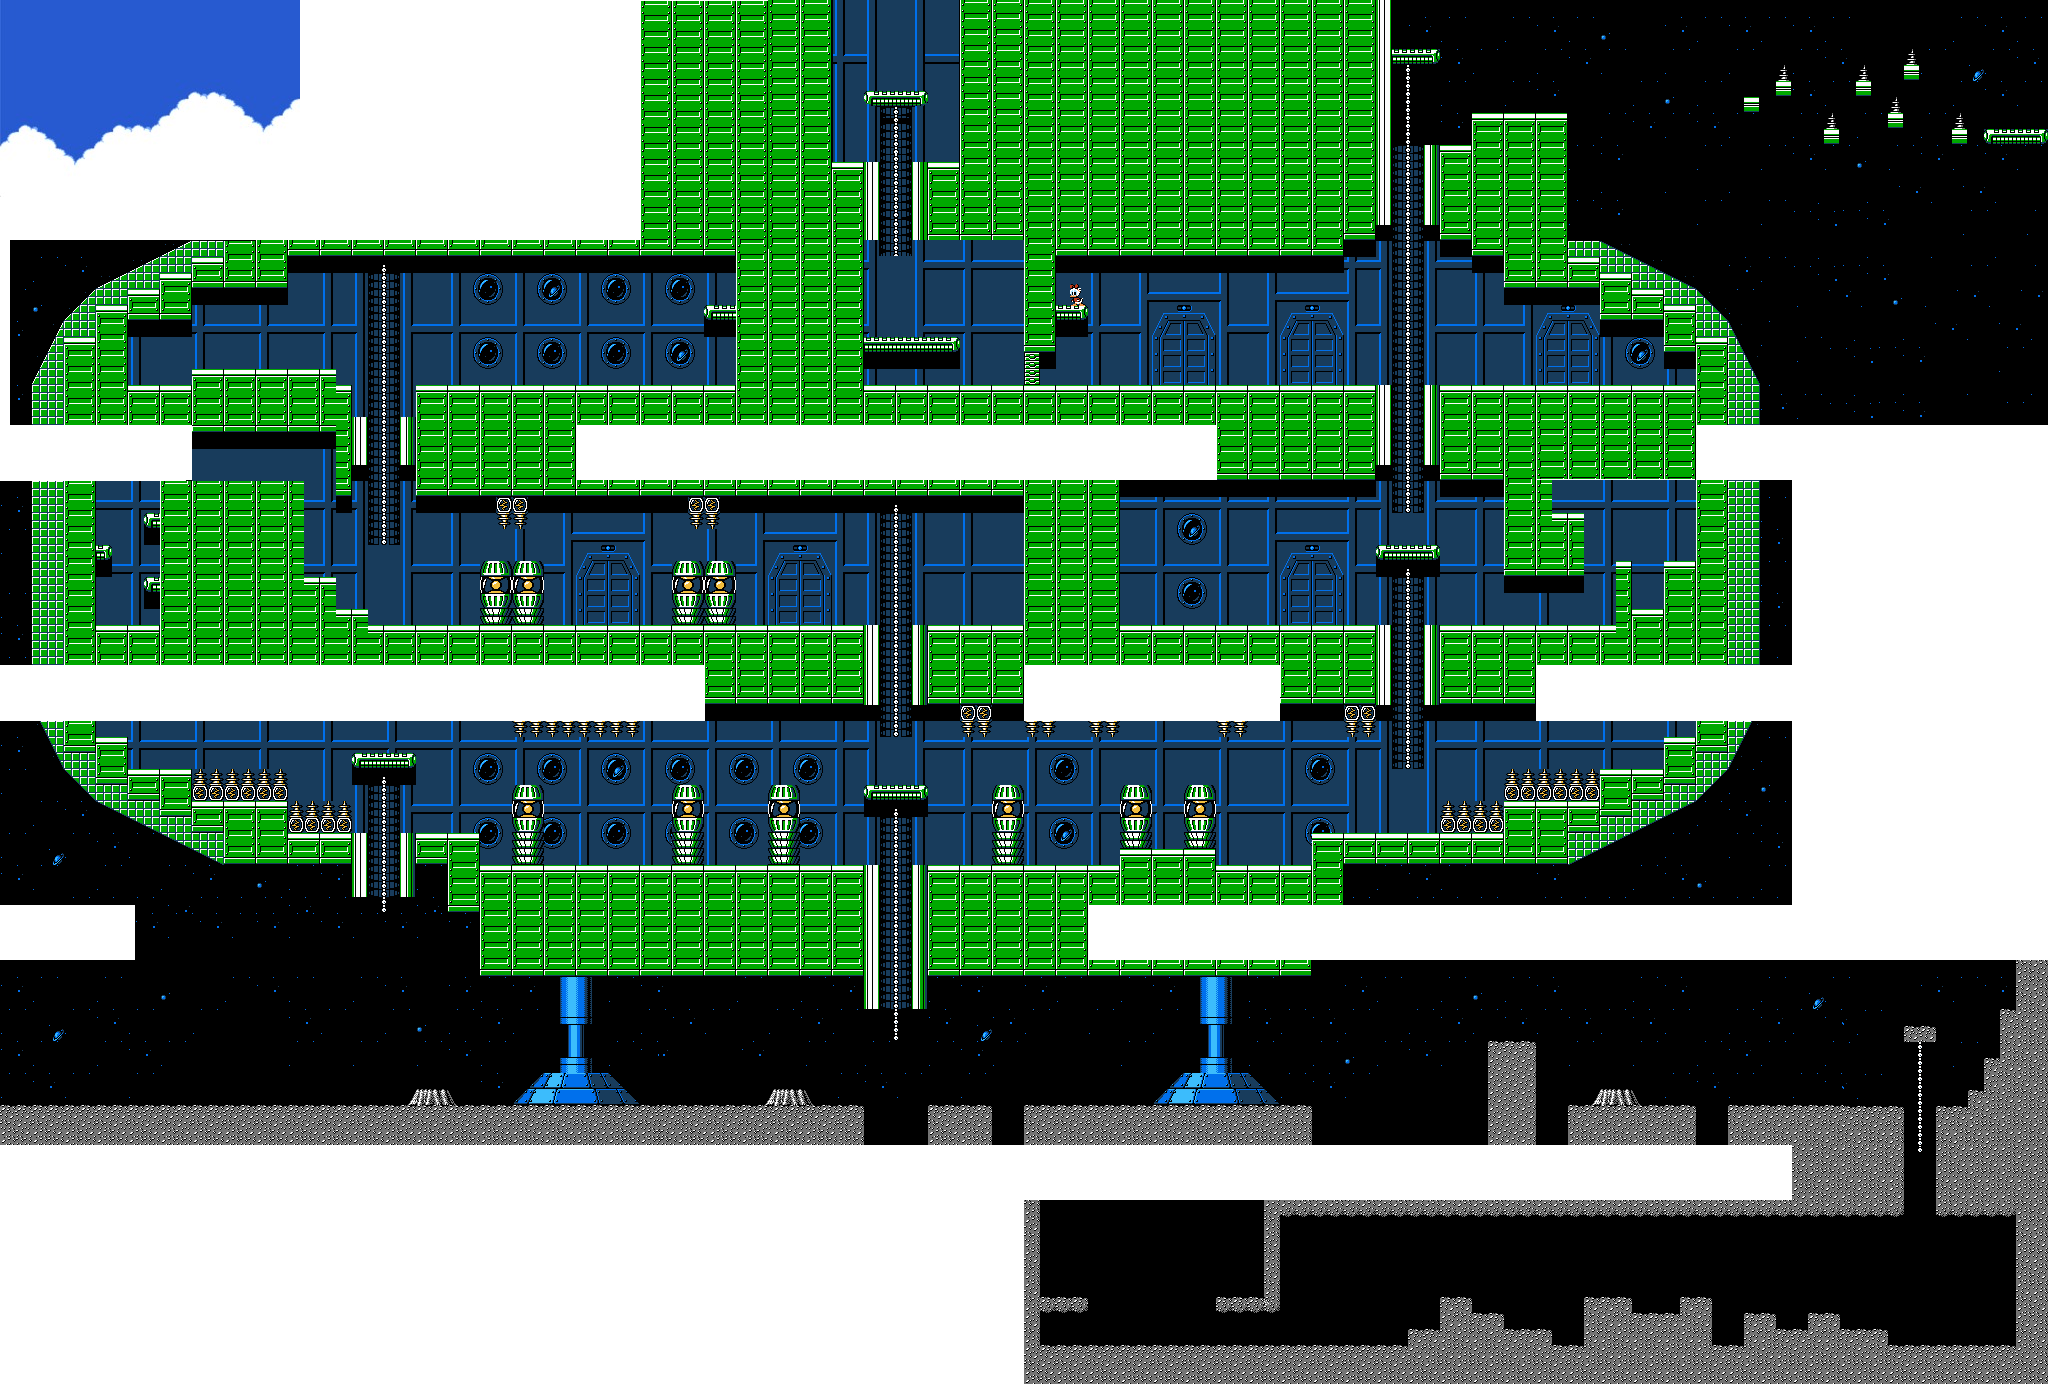
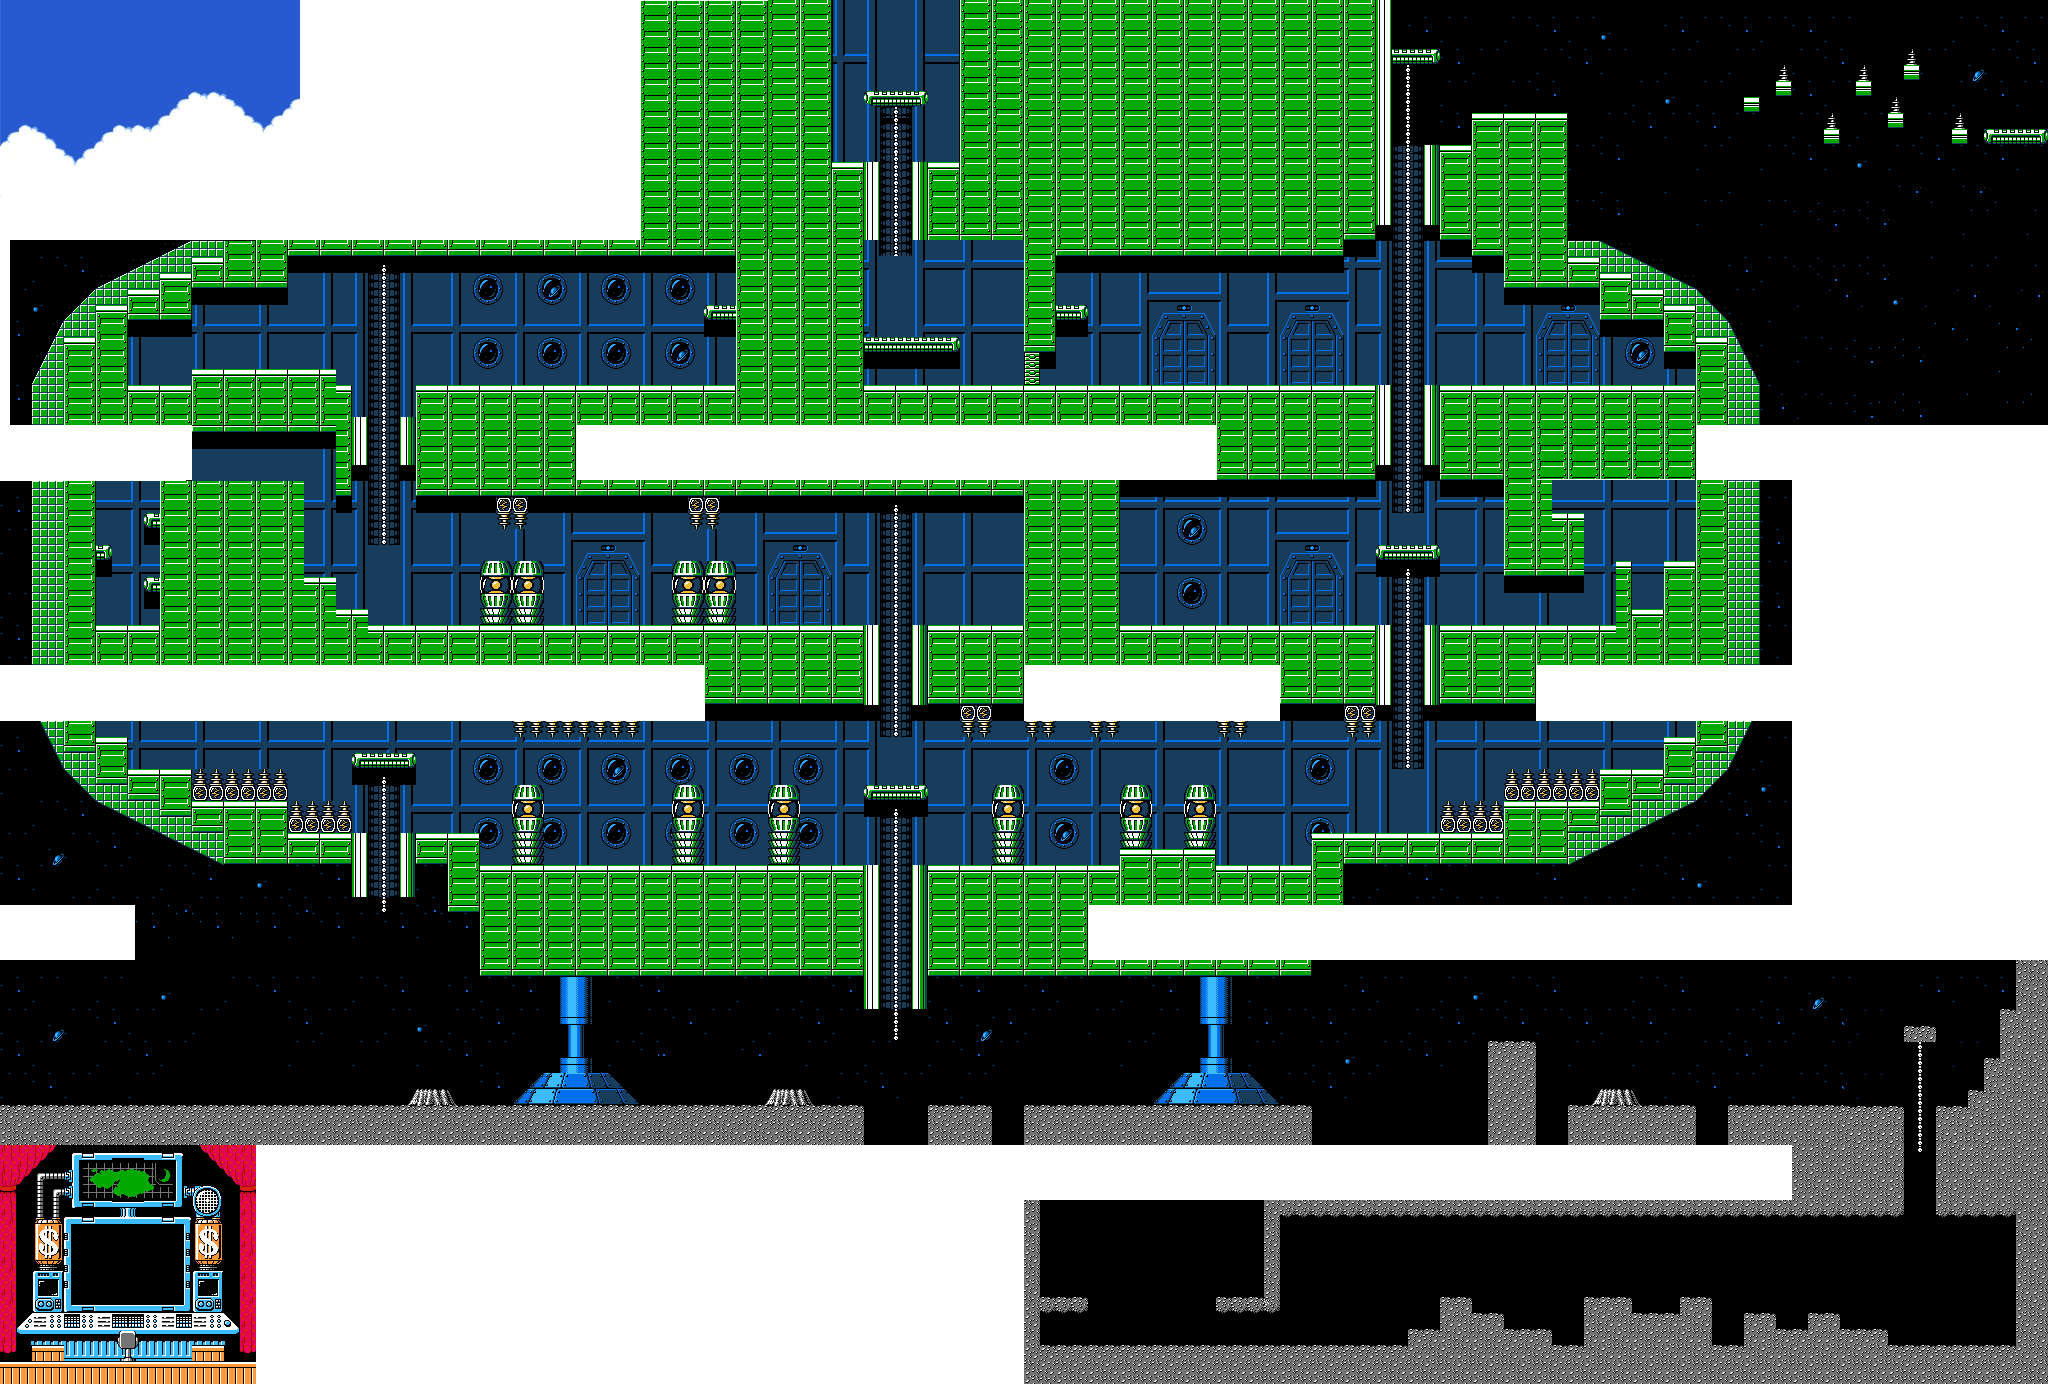
New ACTIVATOR (EVY) + Map Fixes + Message commands

Changed region(s): [[0.0, 0.8078, 0.125, 1.0]]

diff --git a/Game.cpp b/Game.cpp
@@ -1,6 +1,7 @@
 #include "Game.h"
 #include "BBoy.h"
 #include "GameConfig.h"
+#include "Launchpad.h"
 #include "Loader.h"
 #include "Scheduler.h"
 #include "Object.h"
@@ -55,6 +56,7 @@ Game::Game(QGraphicsView *parent) : QGraphicsView(parent)
     setViewport(gl);
     */
     _hud = new HUD(width(), height(), this);
+    _points = new HUD(14*TILE-2, 9.5*TILE-8, this);
 
     connect(_hud, SIGNAL(timeExpired()), this, SLOT(timeExpired()));
     reset();
@@ -64,11 +66,14 @@ void Game::reset()
 {
 
     _state = GameState::READY;
+    _text = Message::NONE;
     _engine.stop();
     _world->clear();
     //_world->setSceneRect(0, 0, TILE * 30, TILE * 30);
     _hud->setVisible(false);
     _hud->reset();
+    _points->setVisible(false);
+    _points->reset();
     _player = 0;
     _builder = 0;
     beagleActive = 1;
@@ -164,7 +169,7 @@ void Game::start()
 void Game::nextFrame() {
 
     FRAME_COUNT++;
-    if (_state == GameState::TITLE_SCREEN || _state == GameState::LEVEL_SELECTION){ // era if (_state != GameState::RUNNING && _state != GameState::TITLE_SCREEN), non ne capisco il senso, da vedere
+    if (_state == GameState::TITLE_SCREEN || _state == GameState::LEVEL_SELECTION || _state == GameState::GAME_CLEAR){ // era if (_state != GameState::RUNNING && _state != GameState::TITLE_SCREEN), non ne capisco il senso, da vedere
 
         /*std::cout<<_arrowPos<<"\n";
             std::cout.flush();
@@ -179,10 +184,12 @@ void Game::nextFrame() {
                 //obj->paint();			 // graphics, automatically called by Qt
             }
         }
+        update();
+
         return;
     }
     // process inputs	 (PLAYER CONTROLS)
-    if(!_player->gizmoduckCinematic() && !_player->launchpadAttachment() && !_bossFightAnimation && !_player->respawningGF() && !_transitioning){ // Commandi di movimento accessibili solo se nessuna è True
+    if(!_player->gizmoduckCinematic() && !_player->launchpadAttachment() && !_bossFightAnimation && !_player->respawningGF() && !_transitioning && _text == Message::NONE){ // Commandi di movimento accessibili solo se nessuna è True
         if (!_player -> climbing()) { // durante climbing non tutti i movimenti sono consentiti
             if (_left_pressed && _right_pressed)
                 _player -> move(Direction::NONE);
@@ -277,15 +284,16 @@ void Game::nextFrame() {
 
     //centerOn(_player->pos()); for Debugging
 
-    if(!_player->inRatPit()){
-        centerView();}
+    if(_state == GameState::LIFT_TO_DUCKBURG){
+        centerOn(_player->x(), _player->y() - 2*TILE);}
+    else if(!_player->inRatPit()){
+        centerView();
+    }
     else{
         centerOn(72*TILE, 79*TILE); // Durante la boss fight, camera fissa nel pit
     }
 
     update();
-    std::cout<<_player->inRatPit()<<"\n";
-    std::cout.flush();
 
     if(FRAME_COUNT % 60 == 0){
         _hud->subTime();
@@ -293,10 +301,7 @@ void Game::nextFrame() {
 
     if (_player -> dead()) {
         gameOver();
-    }else if(_player->duckburg()){
-        liftToDuckburg();
     }
-
 
     if (_state == GameState::GAME_OVER || _state == GameState::GAME_CLEAR || _state == GameState::LIFT_TO_DUCKBURG) {
         gameEnd();
@@ -355,8 +360,13 @@ void Game::keyPressEvent(QKeyEvent * e) {
             _jump_pressed = true;
             _jump_released = false;
         } else if (e -> key() == Qt::Key_X) {
-            _swing_pressed = true;
-            _swing_released = false;
+            if(_text == Message::NONE){
+                _swing_pressed = true;
+                _swing_released = false;}
+            else{
+                _text = Message::NONE;
+            }
+
 
         } else if (e -> key() == Qt::Key_Up) {
             if (_player -> climbing()) {
@@ -365,7 +375,20 @@ void Game::keyPressEvent(QKeyEvent * e) {
                 _grab_pressed = true;
             }
         } else if (e -> key() == Qt::Key_Z) {
-            _pogo_pressed = true;
+            if(_text == Message::NONE){
+                _pogo_pressed = true;}
+            else if (_text == Message::LAUNCHPAD){
+                for (auto item: _world -> items()) {
+                    Launchpad * launchpad = dynamic_cast < Launchpad * > (item);
+                    if(launchpad){
+                        launchpad->flyingAnimation(_player);
+                        _state = GameState::LIFT_TO_DUCKBURG;
+                        _hud->setVisible(false);
+                        break;
+                    }
+                }
+                _text = Message::NONE;
+            }
         }
 
         // Cheats
@@ -485,6 +508,7 @@ void Game::beakleyDrop()
                 drop->setDir(Direction::RIGHT);
             }
             drop->velAdd(Vec2Df(change*0.3, -1));
+            break;
             }
         }
     }
@@ -495,8 +519,16 @@ void Game::gameEnd()
     if (_state != GameState::GAME_CLEAR && _state != GameState::GAME_OVER)
         return;
 
-    if (_state == GameState::GAME_CLEAR)
-        std::cout << "The Moon Level Cleared";
+    if (_state == GameState::GAME_CLEAR){
+        centerOn(0, 82*TILE);
+        _player->move(Direction::NONE);
+        _player->climbingPhysics();
+        _player->setSitting(true);
+        _player->setPos(7.35* TILE, 82 * TILE);
+        _hud->setVisible(false);
+        _points->setVisible(true);
+        _points->move(QPoint(9*TILE, 10.5*TILE));
+    }
     else if (_state == GameState::GAME_OVER)
     {
         std::cout << "Game Over";

diff --git a/Loader.cpp b/Loader.cpp
@@ -522,7 +522,7 @@ Scrooge* Loader::load(std::string levelName)
         new Block(QPointF(103*TILE, 37*TILE), TILE, TILE, Block::Type::CHEST_SMALL); //spawn diamante rosso
         new Block(QPointF(99*TILE, 32*TILE), TILE, TILE, Block::Type::CHEST_SMALL, true);
         new Block(QPointF(100*TILE, 32*TILE), TILE, TILE, Block::Type::CHEST_SMALL, true);
-        new Block(QPointF(88*TILE, 2*TILE), TILE, TILE,Block::Type::CHEST_SMALL);
+        new Block(QPointF(88*TILE, 2*TILE),  TILE, TILE,Block::Type::CHEST_SMALL);
         new Block(QPointF(23*TILE, 61*TILE), TILE, TILE,Block::Type::CHEST_SMALL);
         new Block(QPointF(9*TILE, 23*TILE), TILE, TILE,Block::Type::CHEST_SMALL, false, Spawnable::Type::CAKE);
         new Block(QPointF(125*TILE, 6*TILE), 2*TILE, 2*TILE,Block::Type::CHEST_BIG);
@@ -544,7 +544,7 @@ Scrooge* Loader::load(std::string levelName)
         new Spawnable(QPointF(55.5*TILE, 19*TILE), TILE, TILE, Spawnable::Type::REMOTE);
         new Launchpad(QPointF(44.5*TILE, 16*TILE), 23, 40);
         new Gizmoduck(QPointF(107* TILE, 65.5*TILE), 32, 39);
-        //new StaticObject(QPointF(117*TILE, 60*TILE), TILE, 9*TILE, StaticObject::Type::ACTIVATOR);
+        //new StaticObject(QPointF(117*TILE, 60*TILE), TILE, 9*TILE, StaticObject::Type::ACTIVATOR); Cosa è?
         new StaticObject(QPointF(117*TILE, 60*TILE), TILE, 9*TILE, StaticObject::Activator::GIZMO);
         new StaticObject(QPointF(79*TILE, 82*TILE), TILE/2, 2*TILE, StaticObject::Activator::BOSS);
         new StaticObject(QPointF(57*TILE,10.1*TILE),6*TILE,4.9*TILE);
@@ -570,6 +570,10 @@ Scrooge* Loader::load(std::string levelName)
 
 
         new Rat(QPointF(72 * TILE - 39/2, 80* TILE));
+
+        new StaticObject(QPointF(7*TILE, 83.3*TILE), 2*TILE, TILE); // Final Menu
+
+        new StaticObject(QPointF(66.5*TILE, 18*TILE), TILE, TILE, StaticObject::Activator::EVY);
         return new Scrooge(QPointF(3* TILE, 67*TILE));
 
 
